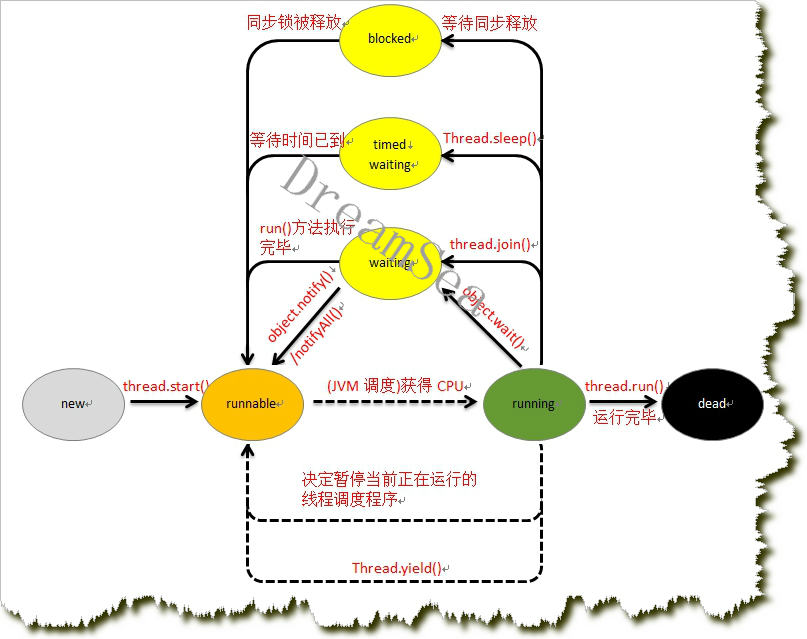
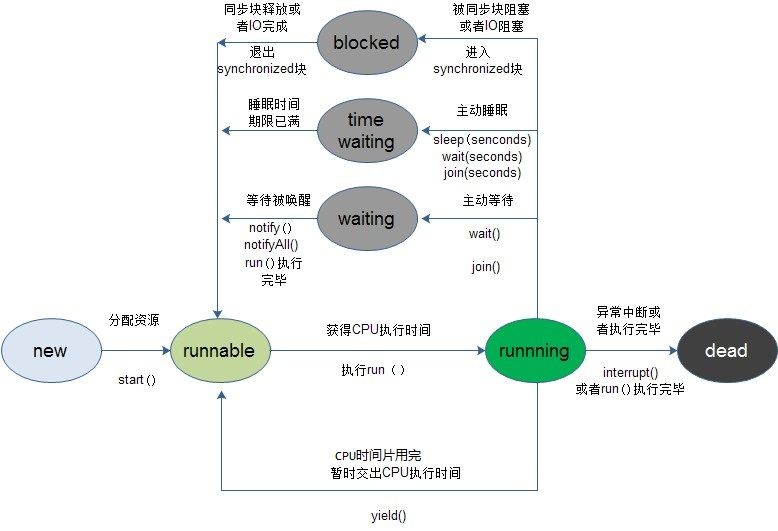
add something about thread

diff --git a/_posts/Java基础知识.md b/_posts/Java基础知识.md
@@ -18,6 +18,7 @@ date: 2018-07-07 19:51:55
         1. 随机访问数据,ArrayList对象要远优于LinkedList对象；
         2. 进行插入或者删除操作，LinkedList对象要远优于ArrayList对象；
     2. 考虑同步的时候只能使用Vector,而Vector和ArrayList相比增加了同步操作,性能上比不上ArrayList
+
 ### Object 
 1. ==和equals的区别
 在Object类中equals()方法其实等效于==,比较的是两个对象的内存地址是否相等
@@ -32,18 +33,34 @@ public boolean equals(Object obj) {
     2. 如果两个对象相同，就是适用于equals(java.lang.Object) 方法，那么这两个对象的hashCode一定要相同；
     3. 如果对象的equals方法被重写，那么对象的hashCode也尽量重写，并且产生hashCode使用的对象，一定要和equals方法中使用的一致，否则就会违反上面提到的第2点；
     4. 两个对象的hashCode相同，并不一定表示两个对象就相同，也就是不一定适用于equals(java.lang.Object) 方法，只能够说明这两个对象在散列存储结构中，如Hashtable，他们“存放在同一个篮子里”。
-### String
-### StringBuilder
-### StringBuffer
+总结一下:hashCode()方法就是用于决定元素存放在结构中(如HashMap等)的位置,然后方便查找的,而在hash值冲突的时候,就需要用到equals()方法来判断到底要找的是哪一个.**所以重写了equals()方法,一般还要重写hashCode()方法**,
+
+### String,StringBuilder和StringBuffer
+1. String对象的每次赋值都相当于重新生成一个新对象,所以String对象频繁变化会导致内存中无引用的字符串多了以后,会引起JVM的GC
+2. StringBuilder底层是基于char数组实现的,append()方法基于System.arraycopy()方法实现
+3. StringBuffer就是线程安全的StringBuilder方法
+
 ### AVL树
-### B树
-### 红黑树
+十分严格的平衡二叉搜索树,树中任何一个节点的两棵子树高度差不超过1
+```java 
+public class AVLTree<T extends Comparable<T>> {
+    private AVLTreeNode<T> mRoot;    // 根结点
+    // AVL树的节点(内部类)
+    class AVLTreeNode<T extends Comparable<T>> {
+        T key;               // 关键字(键值)
+        int height;         // 高度
+        AVLTreeNode<T> left;    // 左孩子
+        AVLTreeNode<T> right;    // 右孩子
+    ......
+}
+```
+
 ### 大根堆
 
 ---
 ## 集合
 ### 线程*安全*的集合
-#### Vector(*)
+#### Vector(+)
 1. 基于数组实现,默认初始化10个
 2. 同步方法,Vector的方法和ArrayList基本一样,就是一些方法都加上了synchronize关键字
 ```java
@@ -71,14 +88,15 @@ private void grow(int minCapacity) {
     elementData = Arrays.copyOf(elementData, newCapacity);
 }
 ```
+
 #### HashTable
 
 #### StringBuffer
 
 ### 线程*不安全*的集合
 #### HashSet
-
-#### LinkedList(*)
+set中元素唯一,根据放入元素的equals()方法判断是不是同一个元素
+#### LinkedList(+)
 1. 基于双向链表实现
 ```java
 private static class Node<E> {
@@ -108,7 +126,7 @@ void linkLast(E e) {
 }
 ```
 
-#### ArrayList(*)
+#### ArrayList(+)
 1. 基于数组实现,默认初始容量10
 ```java
 /**
@@ -138,7 +156,8 @@ private void grow(int minCapacity) {
     elementData = Arrays.copyOf(elementData, newCapacity);
 }
 ```
-#### HashMap(*)
+
+#### HashMap(+)
 参考地址:http://www.importnew.com/22011.html
 HashMap的底层实现原理
 * HashMap的结构:是一个Node<K,V>[]的数组,Node实现了Map.Entry,初始容量16(代码中是`1<<4`),最大是2^30,当检查到插入数据时容量超出`capacity*loadFactor`,就要增大Hash表的尺寸,
@@ -243,33 +262,163 @@ java中的多线程是一种抢占机制而不是分时机制,抢占机制指的
 4. 线程的状态
 {% asset_img 线程的状态.jpg 线程的状态%}
     1. 新生状态（New）： 
-    当一个线程的实例被创建即使用new关键字和Thread类或其子类创建一个线程对象后，此时该线程处于新生(new)状态，处于新生状态的线程有自己的内存空间，但该线程并没有运行，此时线程还不是活着的（not  alive）；
+    当一个线程的实例被创建即使用new关键字和Thread类或其子类创建一个线程对象后，此时该线程处于新生(new)状态，处于新生状态的线程有自己的内存空间，但该线程并没有运行，此时线程还不是活着的（not alive）；
     2. 就绪状态（Runnable）： 
-    通过调用线程实例的start()方法来启动线程使线程进入就绪状态(runnable)；处于就绪状态的线程已经具备了运行条件，但还没有被分配到CPU即不一定会被立即执行，此时处于线程就绪队列，等待系统为其分配CPCU，等待状态并不是执行状态； 此时线程是活着的（alive）；
+    通过调用线程实例的start()方法来启动线程使线程进入就绪状态(runnable)；处于就绪状态的线程已经具备了运行条件，但还没有被分配到CPU即不一定会被立即执行，此时处于线程就绪队列，等待系统为其分配CPU，等待状态并不是执行状态； 此时线程是活着的（alive）；
     3. 运行状态（Running）： 
-    一旦获取CPU(被JVM选中)，线程就进入运行(running)状态，线程的run()方法才开始被执行；在运行状态的线程执行自己的run()方法中的操作，直到调用其他的方法而终止、或者等待某种资源而阻塞、或者完成任务而死亡；如果在给定的时间片内没有执行结束，就会被系统给换下来回到线程的等待状态；此时线程是活着的（alive）；
+    一旦获取CPU(被JVM选中)，线程就进入运行(running)状态，线程的run()方法才开始被执行；在运行状态的线程执行自己的run()方法中的操作，直到
+        1. 调用其他的方法而终止
+        2. 等待某种资源而阻塞
+        3. 完成任务而死亡
+        4. 如果在给定的时间片内没有执行结束，就会被系统给换下来回到线程的等待状态；
+    此时线程是活着的（alive）；
     4. 阻塞状态（Blocked）：
     通过调用join()、sleep()、wait()或者资源被暂用使线程处于阻塞(blocked)状态；处于Blocking状态的线程仍然是活着的（alive）
     5. 死亡状态（Dead）：
-    当一个线程的run()方法运行完毕或被中断或被异常退出，该线程到达死亡(dead)状态。此时可能仍然存在一个该Thread的实例对象，当该Thready已经不可能在被作为一个可被独立执行的线程对待了，线程的独立的call stack已经被dissolved。一旦某一线程进入Dead状态，他就再也不能进入一个独立线程的生命周期了。对于一个处于Dead状态的线程调用start()方法，会出现一个运行期(runtime exception)的异常；处于Dead状态的线程不是活着的（not  alive）。
+    当一个线程的run()方法运行完毕或被中断(Thread.interrupt())或被异常退出，该线程到达死亡(dead)状态。此时可能仍然存在一个该Thread的实例对象，当该Thread已经不可能在被作为一个可被独立执行的线程对待了，线程的独立的call stack已经被dissolved。一旦某一线程进入Dead状态，他就再也不能进入一个独立线程的生命周期了。对于一个处于Dead状态的线程调用start()方法，会出现一个运行期(runtime exception)的异常；处于Dead状态的线程不是活着的（not alive）。
 5. 定义线程的方法
     1. 继承Thread类,重写run()方法,但是这种方法扩张性不高,因为不能继承其他类
-    2. 实现Runnable接口,实现接口中的run()方法
+    2. 实现Runnable接口,实现接口中的run()方法,然后创建Thread实例时作为参数传入
 6. 线程的方法和属性
     1. 优先级（priority）
     每个类都有自己的优先级，一般property用1-10的整数表示，默认优先级是5，优先级最高是10；优先级高的线程并不一定比优先级低的线程执行的机会高，只是执行的机率高；默认一个线程的优先级和创建他的线程优先级相同；    
-    2. Thread.sleep()/sleep(long millis)
-    当前线程睡眠/millis的时间（millis指定睡眠时间是其最小的不执行时间，因为sleep(millis)休眠到达后，无法保证会被JVM立即调度）；sleep()是一个静态方法(static method) ，所以他不会停止其他的线程也处于休眠状态；线程sleep()时不会失去拥有的对象锁。 作用：保持对象锁，让出CPU，调用目的是不让当前线程独自霸占该进程所获取的CPU资源，以留一定的时间给其他线程执行的机会； 
-    3. Thread.yield()
-    让出CPU的使用权，给其他线程执行机会、让同等优先权的线程运行（但并不保证当前线程会被JVM再次调度、使该线程重新进入Running状态），如果没有同等优先权的线程，那么yield()方法将不会起作用。    
-    4. thread.join()
-    使用该方法的线程会在此之间执行完毕后再往下继续执行。    
-    5. object.wait()
-    当一个线程执行到wait()方法时，他就进入到一个和该对象相关的等待池(Waiting Pool)中，同时失去了对象的机锁—暂时的，wait后还要返还对象锁。当前线程必须拥有当前对象的锁，如果当前线程不是此锁的拥有者，会抛出IllegalMonitorStateException异常,所以wait()必须在synchronized block中调用。   
+    2. Thread.yield()
+        1. 让出CPU的使用权，给其他线程执行机会、让同等优先权的线程运行（但并不保证当前线程会被JVM再次调度、使该线程重新进入Running状态)
+        2. 如果没有同等优先权的线程，那么yield()方法将不会起作用。    
+    3. Thread.sleep(long millis) throws InterruptedException
+        1. 当前线程睡眠millis的时间（millis指定睡眠时间是其最小的不执行时间，因为sleep(millis)休眠到达后，无法保证会被JVM立即调度）；
+        2. sleep()是一个静态方法(static method) ，所以他不会停止其他的线程；
+        3. 线程sleep()时**不会失去拥有的对象锁**。 作用：保持对象锁，让出CPU，调用目的是不让当前线程独自霸占该进程所获取的CPU资源，以留一定的时间给其他线程执行的机会； 
+        4. sleep(0)的作用是立刻进行一次CPU竞争,让其他线程有机会执行
+    4. thread.join() throws InterruptedException,可以有时间参数
+    ```java 
+    public static void main(String[] args) {
+        Thread thread0 = new Thread(()->{
+            for (int i = 0; i < 3; i++) {
+                try {
+                    Thread.sleep(1000);
+                } catch (InterruptedException e) {
+                    e.printStackTrace();
+                }
+            }
+        });
+        thread0.start();
+        try {
+            thread0.join();
+        } catch (InterruptedException e) {
+            e.printStackTrace();
+        }
+    }
+    ```
+    ```java 
+    public final synchronized void join(long millis)
+        throws InterruptedException {
+            long base = System.currentTimeMillis();
+            long now = 0;
+
+            if (millis < 0) {
+                throw new IllegalArgumentException("timeout value is negative");
+            }
+
+            if (millis == 0) {
+                while (isAlive()) {
+                    wait(0);    //wait()方法其实调用的就是wait(0)
+                }
+            } else {
+                while (isAlive()) {
+                    long delay = millis - now;
+                    if (delay <= 0) {
+                        break;
+                    }
+                    wait(delay);
+                    now = System.currentTimeMillis() - base;
+                }
+            }
+        }
+    ```
+        1. 比如在main()方法中调用了thread0.join()方法,那么main线程会阻塞,等到thread0执行完之后再执行后面的代码
+        2. join()方法实际上基于wait()方法实现,join()方法中会调用join(0)方法,join(0)方法(是一个同步方法)中调用了wait(0)方法,main线程先获得thread0的对象锁,然后发现thread0还活着,于是释放锁,并进入等待直到thread0结束(至于结束后怎么通知?)
+        3. 可以设置等待时间
+    5. object.wait() throws InterruptedException,可以有时间参数
+        1. 当一个线程执行到obj.wait()方法时，他就进入到一个和该obj对象相关的等待池(Waiting Pool)中，**同时失去了obj的锁—暂时的，wait后还要返还对象锁。**
+        2. **当前线程必须拥有obj的锁才能调用obj.wait()方法**，如果当前线程不是此锁的拥有者，会抛出IllegalMonitorStateException异常,所以wait()必须在synchronized block中调用。   
+        2. 比如:
+        线程A
+        ```java 
+        synchronized(obj) {
+           while(!condition) {
+                     obj.wait();
+             }
+            obj.doSomething();
+        ...
+        }
+        ```
+        当线程A获得obj的锁,但是发现条件不满足的时候,就会调用obj.wait()方法进入等待 
+        线程B
+        ```java 
+        synchronized(obj) {
+              condition = true;
+              obj.notify();
+              ...
+        }
+        ```
+        然后当线程B获得obj的锁,将条件满足,然后调用obj.notify()唤醒等待obj锁的其他线程
+        要注意的是:
+            1. 当obj.wait()方法返回后，线程A需要再次获得obj锁，才能继续执行。  
+            2. 如果A1，A2，A3都obj.wait()，则B调用obj.notify()只能唤醒A1，A2，A3中的一个（具体哪一个由JVM决定）。  
+            3. obj.notifyAll()则能全部唤醒A1，A2，A3，但是要继续执行obj.wait()的下一条语句，必须获得obj锁，因此，A1，A2，A3只有一个有机会获得锁继续执行，例如A1，其余的需要等待A1释放obj锁之后才能继续执行。
+            4. 当线程B调用obj.notify/notifyAll的时候，B正持有obj锁，因此，A1，A2，A3虽被唤醒，但是仍无法获得obj锁。直到B退出synchronized块，释放obj锁后，A1，A2，A3中的一个才有机会获得锁继续执行。
     6. object.notify()/notifyAll()
-    唤醒在当前对象等待池中等待的第一个线程/所有线程。notify()/notifyAll()也必须拥有相同对象锁，否则也会抛出IllegalMonitorStateException异常。   
+        1. 唤醒在object对象等待池中等待的一个线程/所有线程。
+        2. notify()/notifyAll()也必须拥有相同对象锁，否则也会抛出IllegalMonitorStateException异常。   
     7. Synchronizing Block
-    Synchronized Block/方法控制对类成员变量的访问；Java中的每一个对象都有唯一的一个内置的锁，每个Synchronized Block/方法只有持有调用该方法被锁定对象的锁才可以访问，否则所属线程阻塞；机锁具有独占性、一旦被一个Thread持有，其他的Thread就不能再拥有（不能访问其他同步方法），方法一旦执行，就独占该锁，直到从该方法返回时才将锁释放，此后被阻塞的线程方能获得该锁，重新进入可执行状态。
+    Synchronized Block/方法控制对类成员变量的访问；
+        1. Java中的每一个对象都有唯一的一个内置的锁，每个Synchronized Block/方法只有持有 对应的对象锁才可以执行同步方法，否则所属线程阻塞；
+        2. 机锁具有独占性、一旦被一个Thread持有，其他的Thread就不能再拥有（**不能访问其他同步方法,普通方法还是可以的**），方法一旦执行，就独占该锁，直到从该方法返回时才将锁释放，此后被阻塞的线程方能获得该锁，重新进入可执行状态。
+    8. 中断
+    参考地址:https://www.cnblogs.com/onlywujun/p/3565082.html
+        1. Thread.interrupted()方法会返回中断标志位,并将中断标志位清除
+        2. Thread.isInterrupted()方法只是返回中断标志位
+        2. thread0.interrupt()方法设置中断标志
+        3. 线程被synchronized阻塞,即在获取锁的阻塞过程中是不会被中断的,所以中断不能处理死锁
+        4. 调用wait(),sleep(),join()方法的等待过程中可以被中断,因此他们都会抛InterruptedException异常
+        5. 使用中断来结束阻塞状态:
+        while在try里面的时候
+```java
+public void run() {
+    try {
+        ...
+        /*
+         * 不管循环里是否调用过线程阻塞的方法如sleep、join、wait，这里还是需要加上
+         * !Thread.currentThread().isInterrupted()条件，虽然抛出异常后退出了循环，显
+         * 得用阻塞的情况下是多余的，但如果调用了阻塞方法但没有阻塞时，这样会更安全、更及时。
+         */
+        while (!Thread.currentThread().isInterrupted()&& more work to do) {
+            do more work 
+        }
+    } catch (InterruptedException e) {
+        //线程在wait或sleep期间被中断了
+    } finally {
+        //线程结束前做一些清理工作
+    }
+} 
+```
+        try在while里面的时候,应该在catch块里重新设置一下中断标示，因为抛出InterruptedException异常后，中断标示位会自动清除，此时应该这样：
+```java 
+public void run() {
+    while (!Thread.currentThread().isInterrupted()&& more work to do) {
+        try {
+            ...
+            sleep(delay);
+        } catch (InterruptedException e) {
+            Thread.currentThread().interrupt();//是否重新设置中断标示,来决定是否还要循环
+        }
+    }
+}
+```
+    9. setDaemon()
+    设置成守护线程或者用户线程,守护线程和用户线程的区别在于：守护线程依赖于创建它的线程，而用户线程则不依赖。
+
 
 ## 线程进程之间的访问
 1. 临界区(Critical Section)

diff --git a/_posts/数据库.md b/_posts/数据库.md
@@ -41,12 +41,33 @@ date: 2018-07-07 20:48:56
 
 ## 聚集索引
 ## 加速原理
+### 磁盘读写原理和效率
+参考地址:https://blog.csdn.net/v_july_v/article/details/6530142
+1. 读写数据时间的组成
+    * 查找时间:就是磁头移动到需要的柱面上(一个圈就叫柱面),定位到指定磁道,时间代价最大,最大可达0.1s
+    * 等待时间:盘片开始旋转,将指定的磁道段移动到磁头下,因为硬盘转速有7200转/分,所以转一圈的时间就0.0083s,很快
+    * 传输时间:数据通过系统总线到内存的时间,传输一个byte0.02微秒(`2*10^-8`s)
+2. 提速手段
+    硬盘读取数据的速度是以块(block)为基本单位的,而磁盘IO的时间代价主要花费在查找时间,因此一方面要将相关数据放在相近的区域(同一盘块,同一磁道,或者至少放在同一柱面或者相邻柱面),减少读/写数据时来回移动磁头的次数
+
+### B树(B-树)
+也是一种多叉平衡查找树,一个节点内有x个关键字,那么这个节点就有x+1个子节点
+{% asset_img b树的结构.jpg b树的结构%}
+如上图树查找字母R的路径
+{% asset_img b树文件查找过程.jpg b树文件查找过程%}
+根节点中的17代表一个磁盘文件的文件名,**红色方块代表17文件在硬盘中的存储位置(这就是和B+树的主要区别)**,P1指向17的左子树.
+
+
+
 ### B+树的介绍
 参考地址:http://blog.csdn.net/guoziqing506/article/details/64122287
 与b树相比较
-1. b+树的磁盘读写代价更低,因为b+树的内部节点并没有指向关键字的指针的具体信息
+1. b+树的磁盘读写代价更低,因为b+树的内部节点**并没有指向关键字的指针的具体信息**,所以盘快内可以容纳更多的关键字,盘块读进内存后查找的范围更大,从而降低树的高度
 2. 查询效率更加稳定,因为内部节点并不是指向最终文件内容的节点,而是指向关键字的节点,所以每一次查询都必须从根节点到叶子结点,长度相同
 3. b树在解决io效率的时候并没有解决元素遍历效率低下的问题,而b+树只需要遍历叶子节点就能解决对所有关键字的查询,对于数据库中经常使用的范围查询性能更高
+{% asset_img b+树的文件查找结构.jpg b+树的文件查找结构}
+
+### 红黑树
 
 ### 创建索引的原则:
 1. 最左前缀匹配原则

diff --git a/_posts/左程云算法课进阶班.md b/_posts/左程云算法课进阶班.md
@@ -10,6 +10,15 @@ date: 2018-07-08 11:00:50
  代码地址:https://gitee.com/ninghuang/swordTOOffer/tree/master/src/cn/hn/algoriththm
  <!-- more -->
 
+
+## 二叉搜索树套路
+{% asset_img 二叉搜索树的可能性分析.png 二叉搜索树的可能性分析%}
+* 选择一个节点进行可能性分析:
+    1. 最大子树来自左子树中
+    2. 最大子树来自右子树中
+    3. 这个节点就是二叉搜索树(判断信息需要左右子树中的最大二叉搜索树的头结点,左最大值,右最小值)
+1. 查找一棵树中的最大二叉搜索子树
+
 ## 二叉平衡搜索树
 所谓二叉搜索树就是树中每一个节点的左子树都比自己小,右子树都比自己大
 平衡性指的是左右子树的规模差不多
